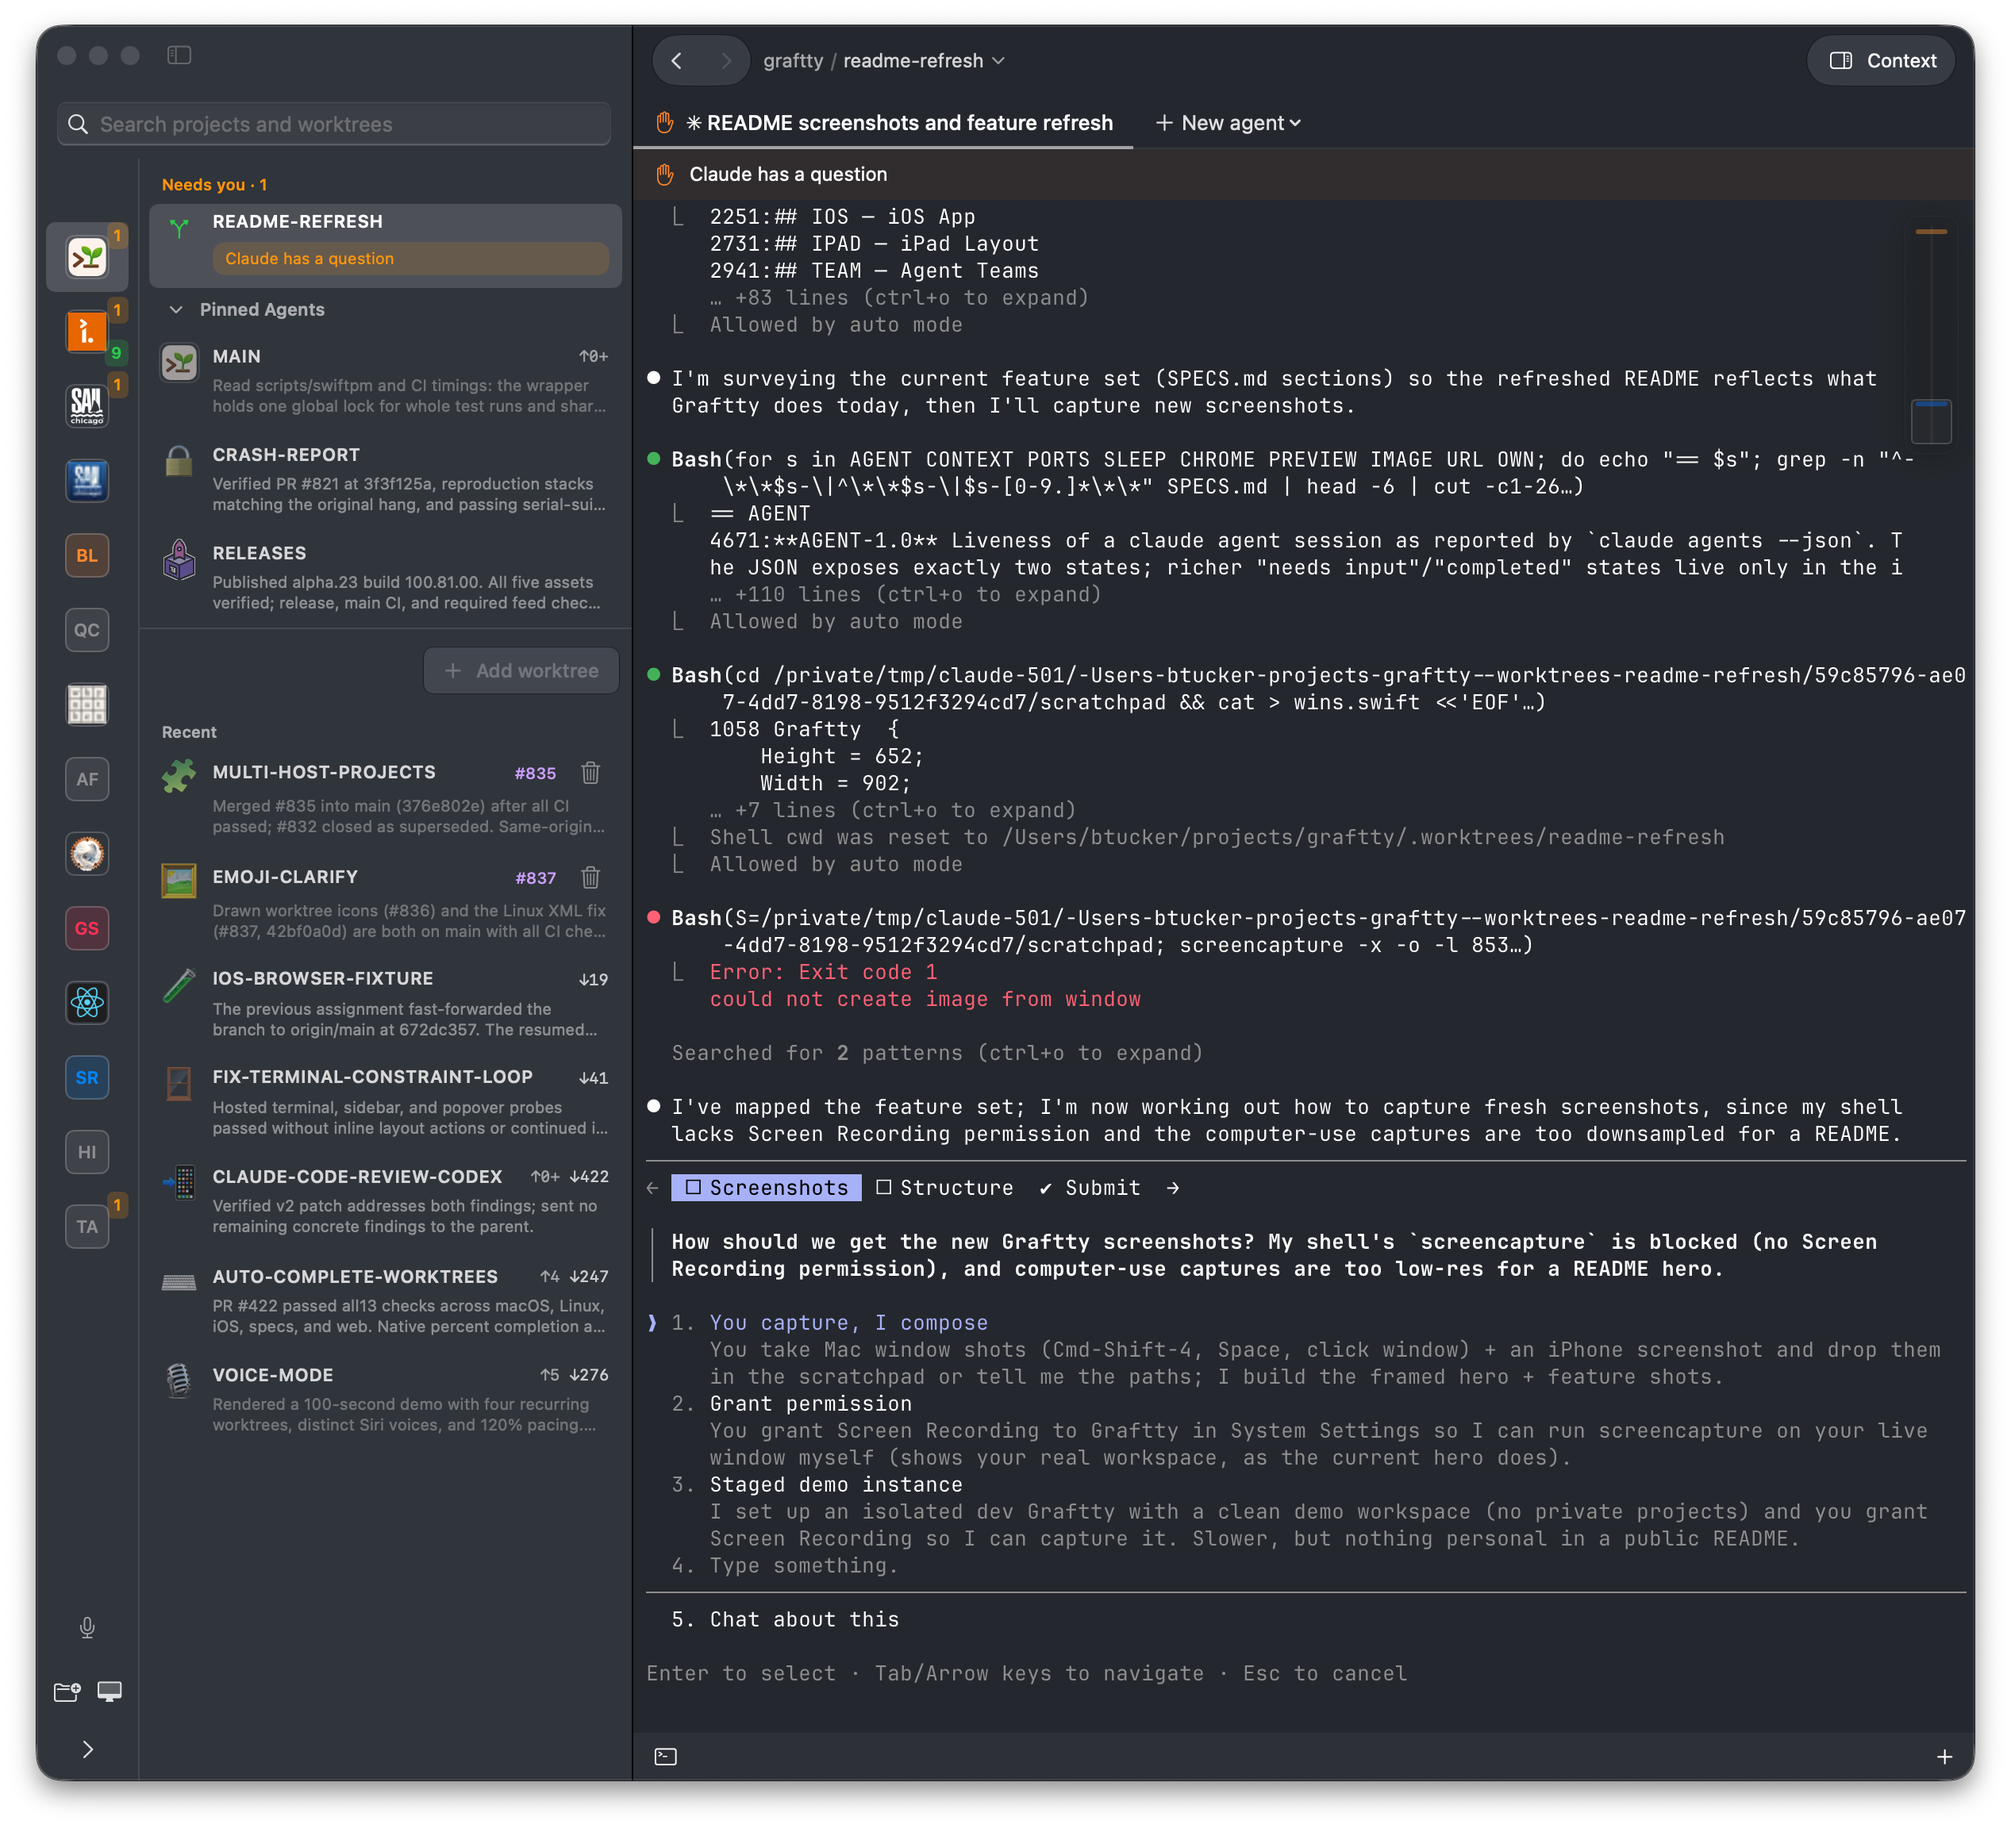
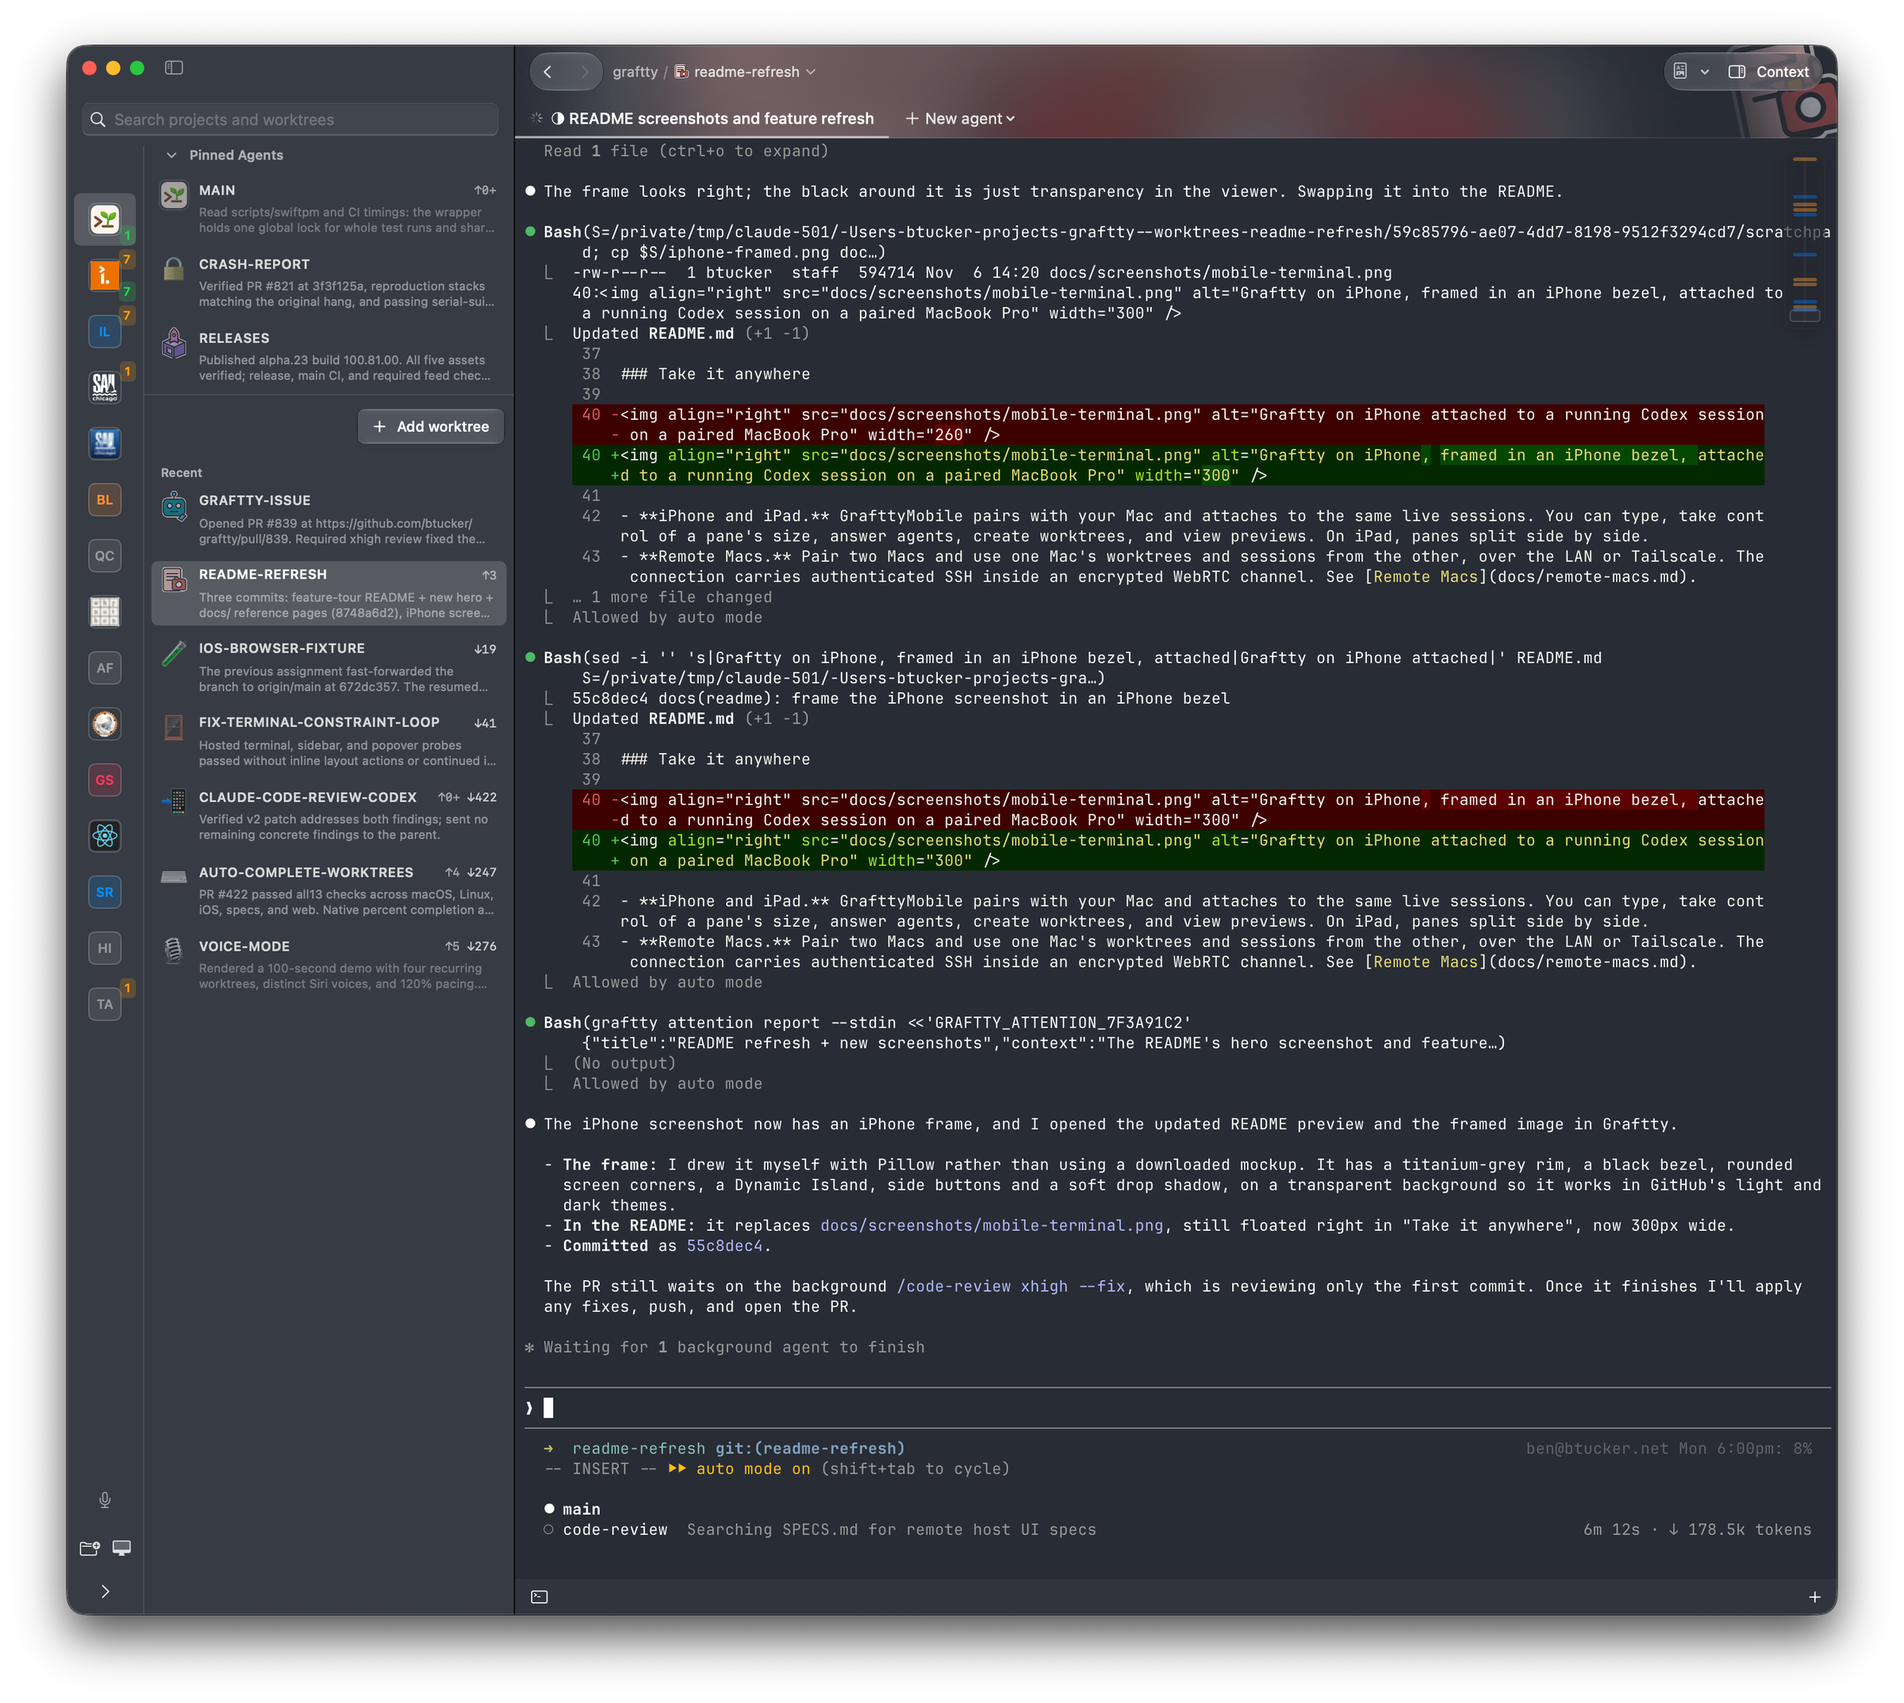
docs(readme): use a cleaner desktop screenshot for the hero

Changed region(s): [[0.0, 0.0, 1.0, 0.9991], [0.2812, 0.8117, 0.3125, 0.843]]

diff --git a/README.md b/README.md
@@ -9,7 +9,7 @@ A worktree-native terminal for running many coding agents at once, built on [lib
 Graftty organizes persistent terminal sessions by Git worktree. Every project and worktree gets its own split layout of terminals, and those terminals keep running when you switch away, quit the app, or pick the work up from your phone. Graftty also tracks what each agent is doing, so the sidebar shows which ones need you.
 
 <p align="center">
-  <img src="docs/hero.png" alt="The Graftty window: a sidebar of projects and worktrees grouped into Needs you, Pinned Agents, and Recent, beside a Claude Code session that is asking a question" width="960" />
+  <img src="docs/hero.png" alt="The Graftty window: a project rail and a sidebar of pinned agents and recent worktrees with agent recaps, beside a Claude Code session" width="960" />
 </p>
 
 ## Core features
@@ -20,16 +20,16 @@ Graftty organizes persistent terminal sessions by Git worktree. Every project an
 - **Terminals that survive.** Every pane is backed by a [zmx](https://zmx.sh/) session, so shells, servers, and agents keep running across worktree switches and app restarts.
 - **Splits per worktree.** Each worktree remembers its own split layout. Graftty uses libghostty for the terminal itself, so rendering, fonts, and input behave like Ghostty.
 - **Git status at a glance.** Rows show the linked PR or MR (`#123` for GitHub, `!123` for GitLab) and its CI status, plus how far the branch is ahead of or behind the default branch. Ports your panes listen on appear as chips in the header.
-- **Create and clean up worktrees** from the sidebar, the CLI, or your phone. Graftty offers to delete worktrees whose PR merged or closed.
+- **Create and clean up worktrees** from the sidebar, the CLI, or your phone. When a worktree's PR or MR merges, its row offers a remove button.
 
 ### Built for coding agents
 
 - **Claude Code and Codex plugins.** Graftty installs provider plugins that connect agents to the app through hooks and skills. It offers to install them on first launch, and they also live under **Settings → Agent Teams**.
-- **Attention that means something.** When an agent asks a question or finishes, its worktree moves to **Needs you** with a badge and an optional desktop notification. Busy agents show as working.
+- **Attention that means something.** When an agent asks a question or sends a notification, its worktree moves to **Needs you** with a badge and an optional desktop notification. Finished agents stay where they are with an unread result, and busy agents show as working.
 - **Worktree briefs.** Agents keep a short recap of each worktree: what it's for, what's done, decisions made, and what's next. You see it in the sidebar and in the **Context** panel, so you can switch back into a worktree without rereading the transcript.
 - **Pinned agents with roles.** Pin long-lived agents (a lead, a release manager, a crash investigator) and give each durable instructions in a `GRAFTTY.md` file.
 - **Agent teams.** Agents in one repository can see each other, message each other's inboxes, and react to PR and CI events. One agent can start another in a new worktree with `graftty worktree add <name> --agent claude`.
-- **Native previews.** An agent can run `graftty preview explanation.html chart.png` to show HTML, images, and documents in a Quick Look tray beside the terminal. On your phone they open in the pane you control.
+- **Native previews.** An agent can run `graftty preview explanation.html chart.png` to show HTML, images, and documents in a native Quick Look window without taking focus from the terminal. On your phone, new previews open automatically for the focused pane you control.
 
 <p align="center">
   <img src="docs/screenshots/file-previews/mac-preview.png" alt="A native Quick Look preview tray showing an HTML explanation opened with graftty preview" width="720" />
@@ -56,11 +56,11 @@ graftty notify "tests passing"                 # badge this worktree in the side
 graftty pane add --command "pnpm dev"          # split and run a command
 graftty worktree add fix-auth --agent codex    # new worktree with an agent in it
 graftty pane show fix-auth:1 --lines 200       # read another worktree's pane
-graftty team send --stdin <member>             # message a teammate agent
+graftty team send fix-auth "rebase on main"    # message a teammate agent
 graftty preview report.html                    # open a native preview
 ```
 
-See the [CLI reference](docs/cli.md) for everything else.
+See the [CLI reference](docs/cli.md) for more commands and examples.
 
 ## Installing
 
@@ -116,7 +116,7 @@ If you only touch Swift, you need neither — the committed bundle is what
 ## Further reading
 
 - [Agents in Graftty](docs/agents.md): pinned agents, `GRAFTTY.md` instruction files, and agent teams.
-- [The graftty CLI](docs/cli.md): every command, with examples.
+- [The graftty CLI](docs/cli.md): common commands, with examples.
 - [Remote Macs](docs/remote-macs.md): pairing, reconnection, and the trust model.
 - [Linux hosts](docs/linux-host.md) and [Windows hosts](docs/windows-host.md).
 - [`SPECS.md`](SPECS.md): the authoritative EARS-style behavior spec.

diff --git a/docs/agents.md b/docs/agents.md
@@ -2,9 +2,9 @@
 
 How Graftty pins agents, gives them per-worktree instructions, and lets them coordinate as a team.
 
-## Agent instructions
+## Pinned agents
 
-The sidebar lists temporary worktrees above a collapsible **Pinned Agents**
+The sidebar lists temporary worktrees below a collapsible **Pinned Agents**
 section. The repository's default-branch row always appears first among pinned
 agents, followed by ongoing-role worktrees in saved manual order. To pin a local
 worktree, drag it onto the **Pinned Agents** header or a pinned worktree row,
@@ -17,8 +17,8 @@ Agents can use `graftty worktree pin` to pin their own worktree, or
 `graftty worktree pin <name-or-path>` to pin another local worktree.
 `graftty worktree unpin [name-or-path]` returns it to the temporary list without
 changing its workspace or instructions. The default-branch checkout stays
-pinned. Pinned agents do not receive deletion offers when their PR or MR merges
-or closes. The bundled team skill explains the pinning and role-file workflow.
+pinned. Removing a pinned worktree with `graftty worktree remove` requires
+`--pinned`. The bundled team skill explains the pinning and role-file workflow.
 
 To configure a pinned agent's responsibilities, choose **Edit Role Instructions…**
 from its context menu. Graftty opens its effective worktree-specific instruction
